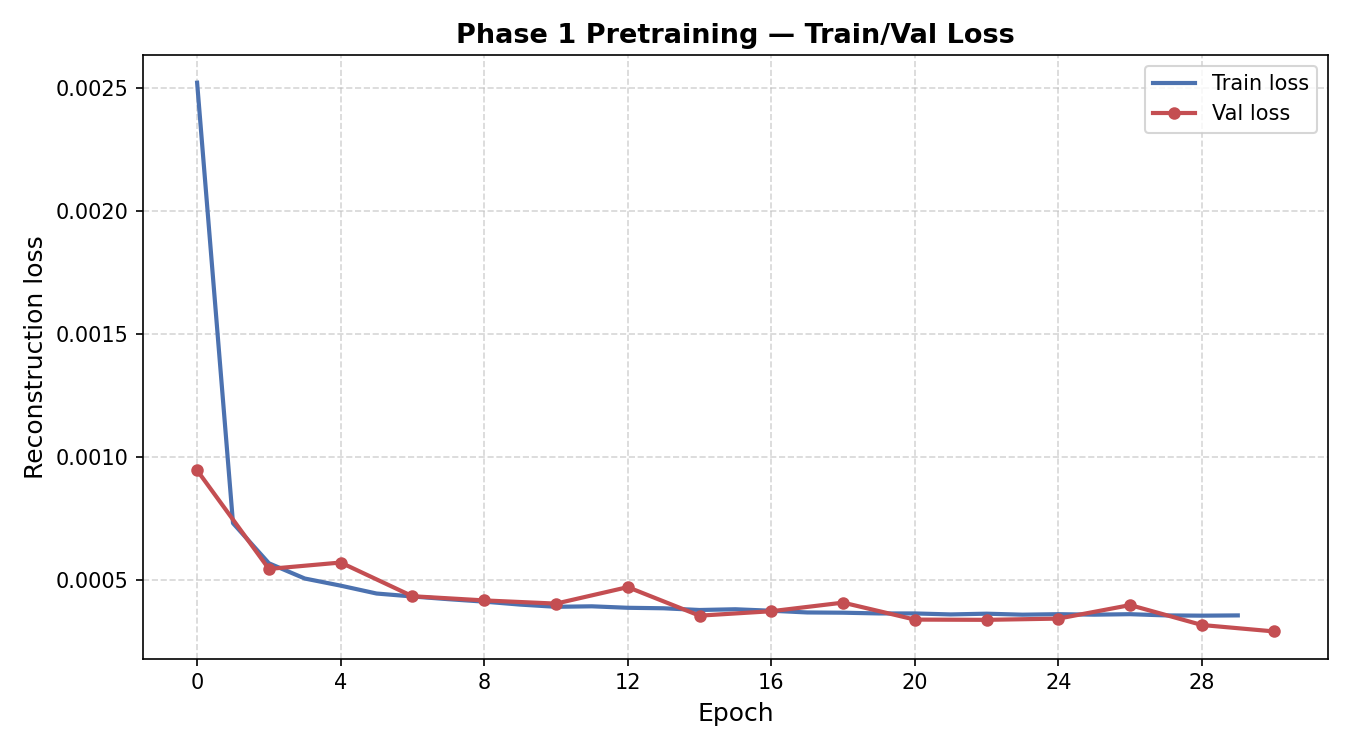
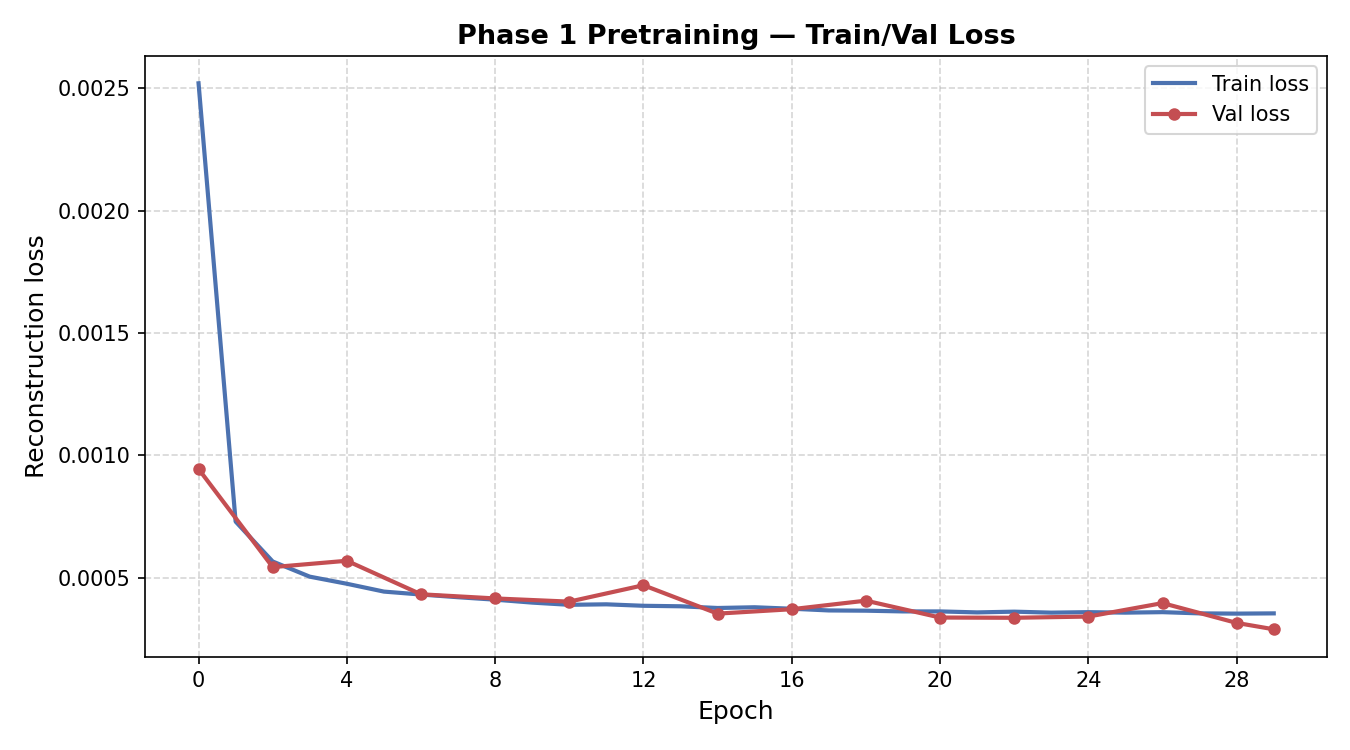
[FIX] corrected loss plot, with evaluation on last epoch

diff --git a/experiments/fundus-unet/plot_loss.py b/experiments/fundus-unet/plot_loss.py
@@ -38,7 +38,12 @@ OUTPUT_DIR = "experiments/fundus-unet/plots"
 
 
 def eval_epoch_axis(n_values):
-    return [FIRST_EVAL_EPOCH + i * EVAL_INTERVAL for i in range(n_values)]
+    epochs = [FIRST_EVAL_EPOCH + i * EVAL_INTERVAL for i in range(n_values)]
+    if TRAIN_LOSS and epochs:
+        last_epoch = len(TRAIN_LOSS) - 1
+        if epochs[-1] != last_epoch:
+            epochs[-1] = last_epoch
+    return epochs
 
 
 def main():
